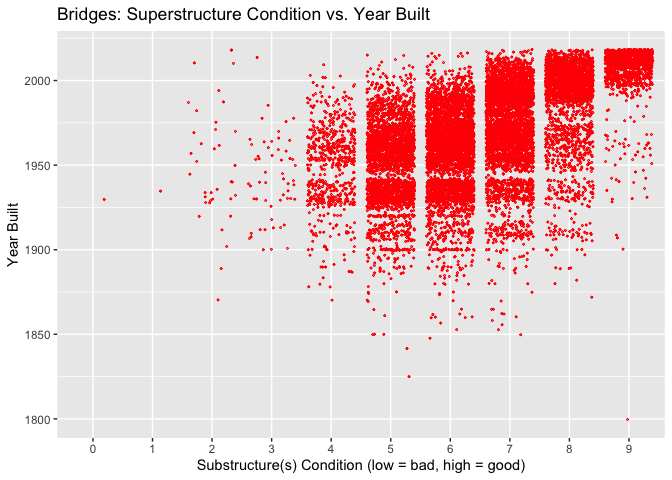
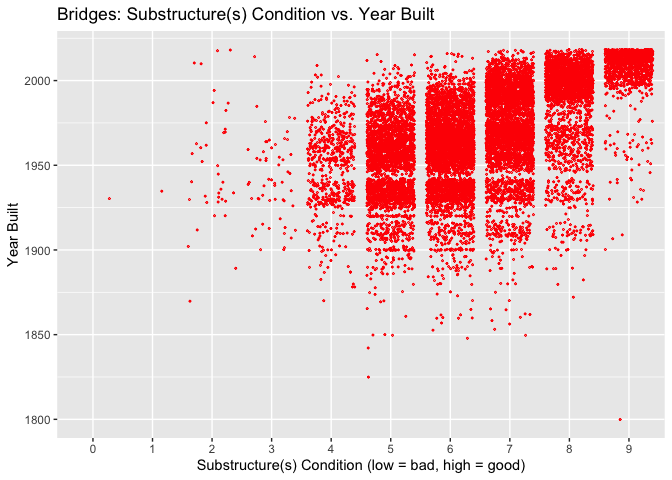
quick graph edit

diff --git a/README.md b/README.md
@@ -25,7 +25,7 @@ ggplot(subset(NYbridges,!(Superstructure_Condition == "N")), aes(x = Superstruct
 ``` r
 ggplot(subset(NYbridges,!(Substructure_Condition == "N")), aes(x = Substructure_Condition, y = Year_Built))+
   geom_jitter(shape = 1, col = "red", size = .3)+
-  ggtitle("Bridges: Superstructure Condition vs. Year Built")+
+  ggtitle("Bridges: Substructure(s) Condition vs. Year Built")+
   xlab("Substructure(s) Condition (low = bad, high = good)")+
   ylab("Year Built")
 ```
